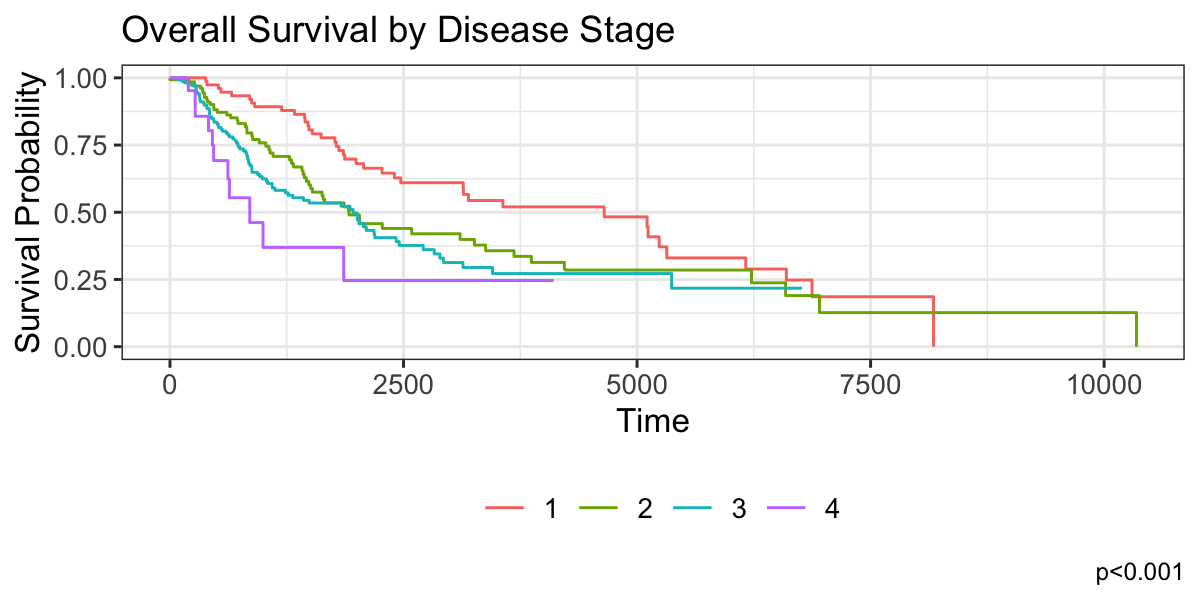
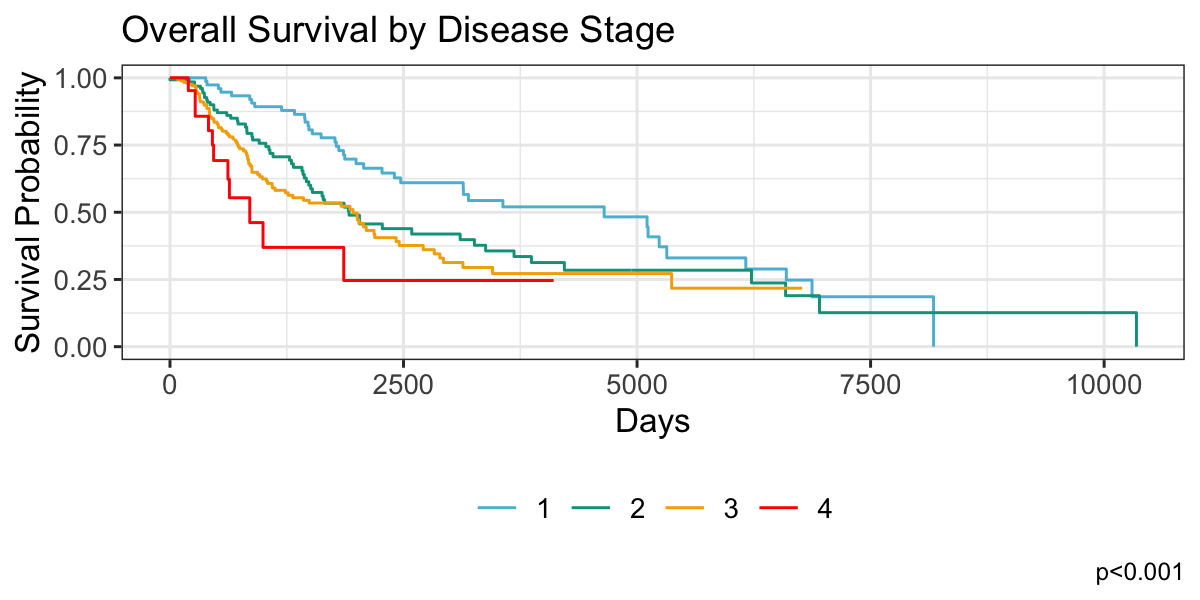
updated PCA and added survival plot

diff --git a/README.md b/README.md
@@ -47,14 +47,18 @@ There shouldn't be metastatic samples labeled Stage 0 or stage 1, and probably n
 
 **Figure 1. PCA plots of normalized expression**
 
-There is some seperation of primary vs. metastatic samples in PC1 and PC2. This is driven in part by the lymph node metastatic samplesm, but the metastatic cutaneous samples also seem to seperate. Let's plot just the cutaneous samples.
+There is some seperation of primary vs. metastatic samples in PC1 and PC2. This is driven in part by the lymph node metastatic samples, but the metastatic cutaneous samples also seem to seperate. Let's plot just the cutaneous samples.
 
 ![alt_text](https://github.com/SciOmics/TCGA_Melanoma_RNASeq/blob/main/outputs/plots/pca_plot_cutaneous.png?raw=true)  
 
 **Figure 2. PCA plot filtered to only cutanous samples**
 
+There does indeed appear to be some seperating along PC1 and PC2, a maybe a bit in PC3. 
 
 
+![alt_text](https://github.com/SciOmics/TCGA_Melanoma_RNASeq/blob/main/outputs/plots/survival_plot_stage.png.png?raw=true)  
+
+**Figure 3. Survival by disease stage.**
 
 
 
